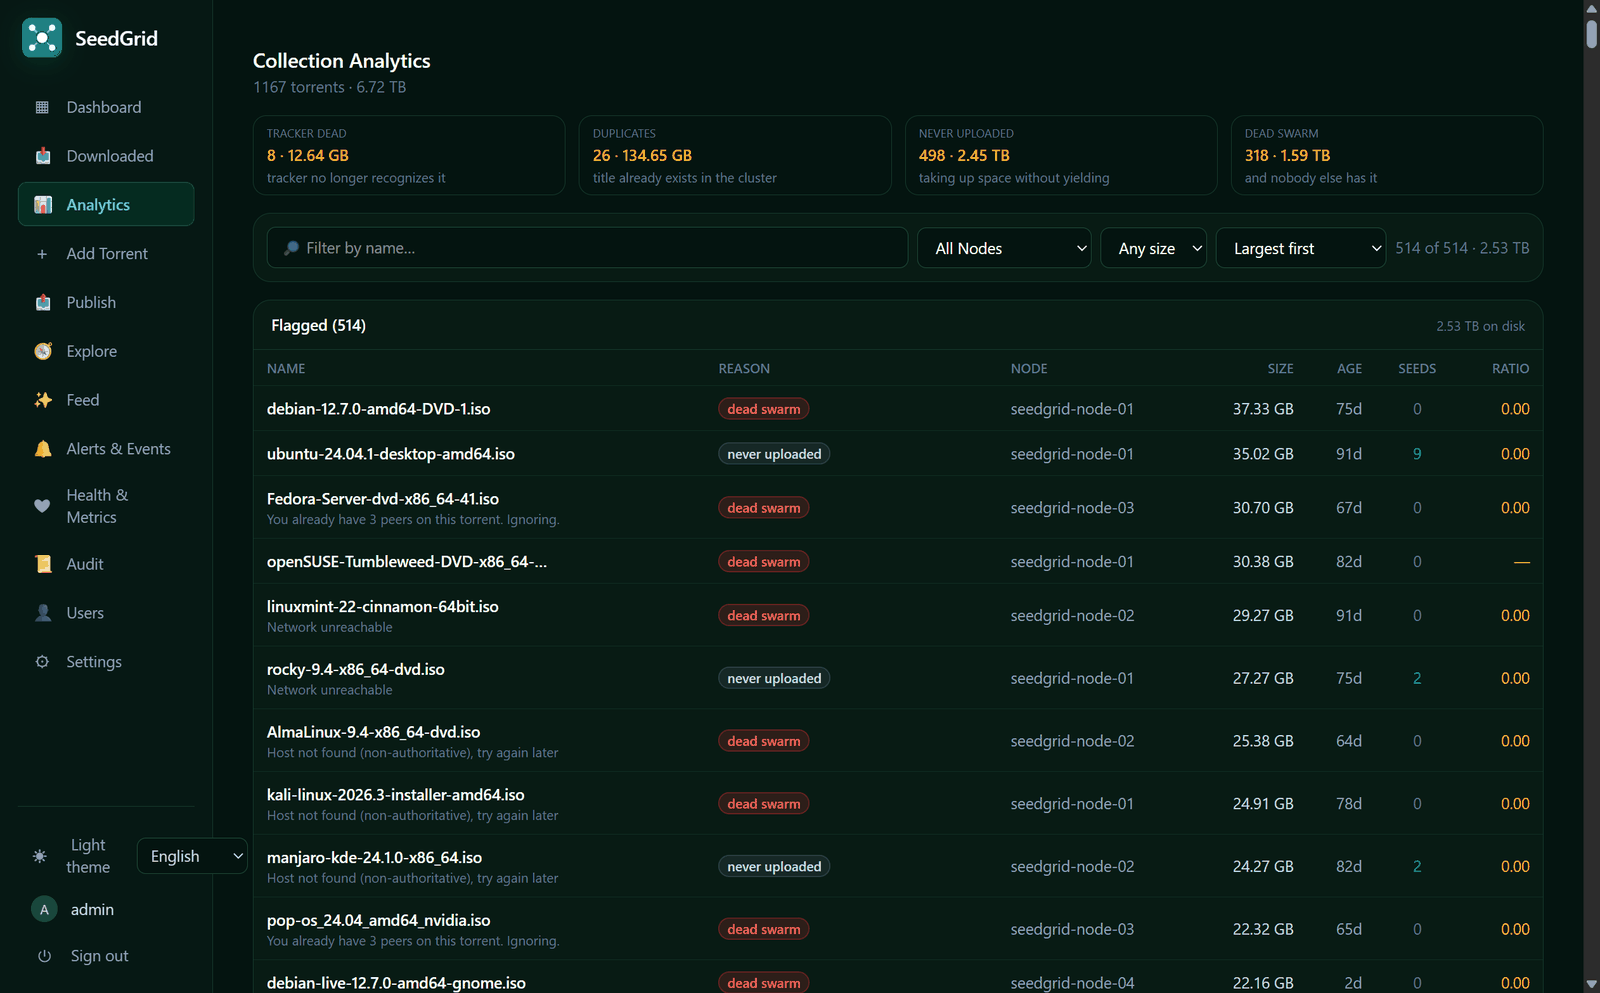
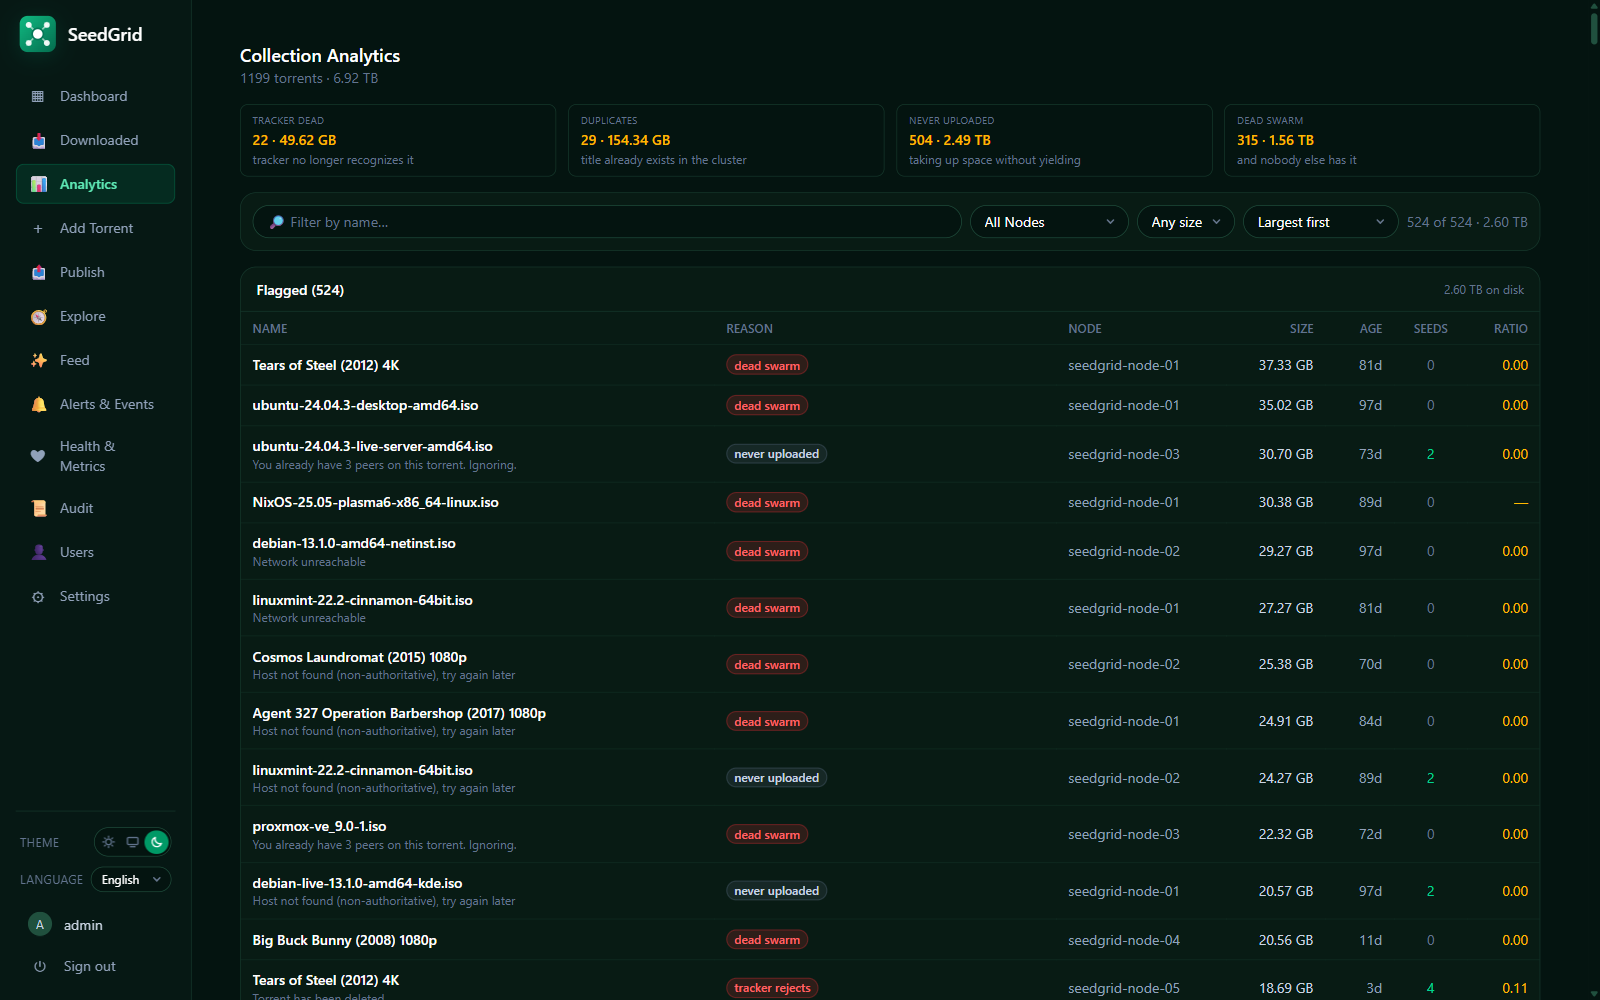
fix(portal): language list fits in English; themed scrollbars; new README screenshots
In English the sidebar language list was cut to "Engl…": the LANGUAGE
label is wider than IDIOMA and left the compact list too little room for
its text and chevron. The compact list now takes the rest of its row and
keeps less padding around the chevron.

Scrollbars were the browser's default wide grey bar on every page and
inner scroll area. They are now thin, with a transparent track and a
rounded thumb in the border shade, in both themes.

The README screenshots are retaken with the theme switch and the
form-control standard, from a real cluster with addresses replaced by
documentation ranges and torrent names by public ISOs.

Closes #26

diff --git a/portal/src/index.css b/portal/src/index.css
@@ -88,6 +88,32 @@
   --sg-toast-ok-bg: rgb(209 250 229 / 0.94);
 }
 
+/* Scrollbars (page and inner scroll areas): thin, transparent track, rounded thumb in the border
+   shade — the browser default is a wide grey bar that ignores the theme. scrollbar-color covers
+   Firefox and current Chromium; the ::-webkit-scrollbar rules cover Safari and older Chromium. */
+html {
+  scrollbar-width: thin;
+  scrollbar-color: var(--color-slate-700) transparent;
+}
+::-webkit-scrollbar {
+  width: 10px;
+  height: 10px;
+}
+::-webkit-scrollbar-track {
+  background: transparent;
+}
+::-webkit-scrollbar-thumb {
+  border: 2px solid transparent;
+  border-radius: 9999px;
+  background: var(--color-slate-700) padding-box;
+}
+::-webkit-scrollbar-thumb:hover {
+  background: var(--color-slate-600) padding-box;
+}
+::-webkit-scrollbar-corner {
+  background: transparent;
+}
+
 body {
   margin: 0;
   background: var(--color-slate-950);
@@ -128,6 +154,11 @@ body {
     @apply cursor-pointer appearance-none truncate bg-no-repeat pr-8;
     background-image: var(--sg-chevron);
     background-position: right 0.8rem center;
+  }
+  /* The compact list sits in tight rows (the sidebar language list): less room for the chevron. */
+  .sg-field-sm.sg-select {
+    @apply pr-6 pl-2.5;
+    background-position: right 0.55rem center;
   }
   .sg-textarea {
     @apply rounded-2xl px-3.5 py-2 text-sm;

diff --git a/portal/src/components/Layout.tsx b/portal/src/components/Layout.tsx
@@ -74,7 +74,7 @@ export function Layout({
       <select
         value={lang}
         onChange={(e) => setLang(e.target.value as Lang)}
-        className="sg-field-sm sg-select min-w-0"
+        className="sg-field-sm sg-select min-w-0 flex-1"
       >
         <option value="pt-BR">Português</option>
         <option value="en">English</option>

diff --git a/CHANGELOG.md b/CHANGELOG.md
@@ -24,6 +24,8 @@ the configuration; each release says how to upgrade.
   the Portal now uses the same fields.
 
 ### Fixed
+- Portal: the sidebar language list no longer truncates in English, and scrollbars follow the
+  theme (thin, transparent track) instead of the browser's wide grey bar.
 - Portal: the language selector no longer spills out of the sidebar; it sits on its own row
   under the theme switch.
 - Portal: **Catalog** and **Add Torrent** sent you to Profile to register a tracker; they now
